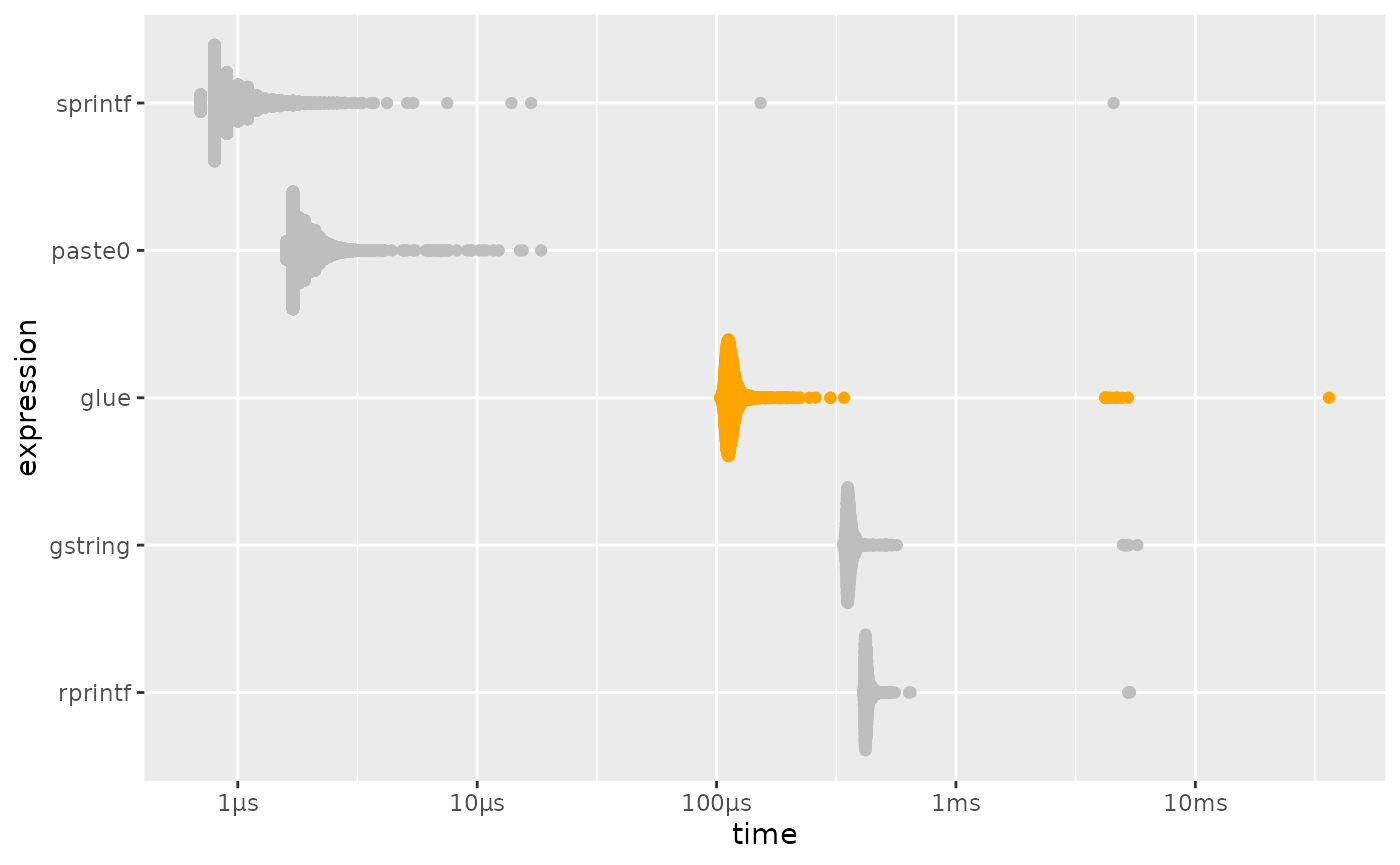
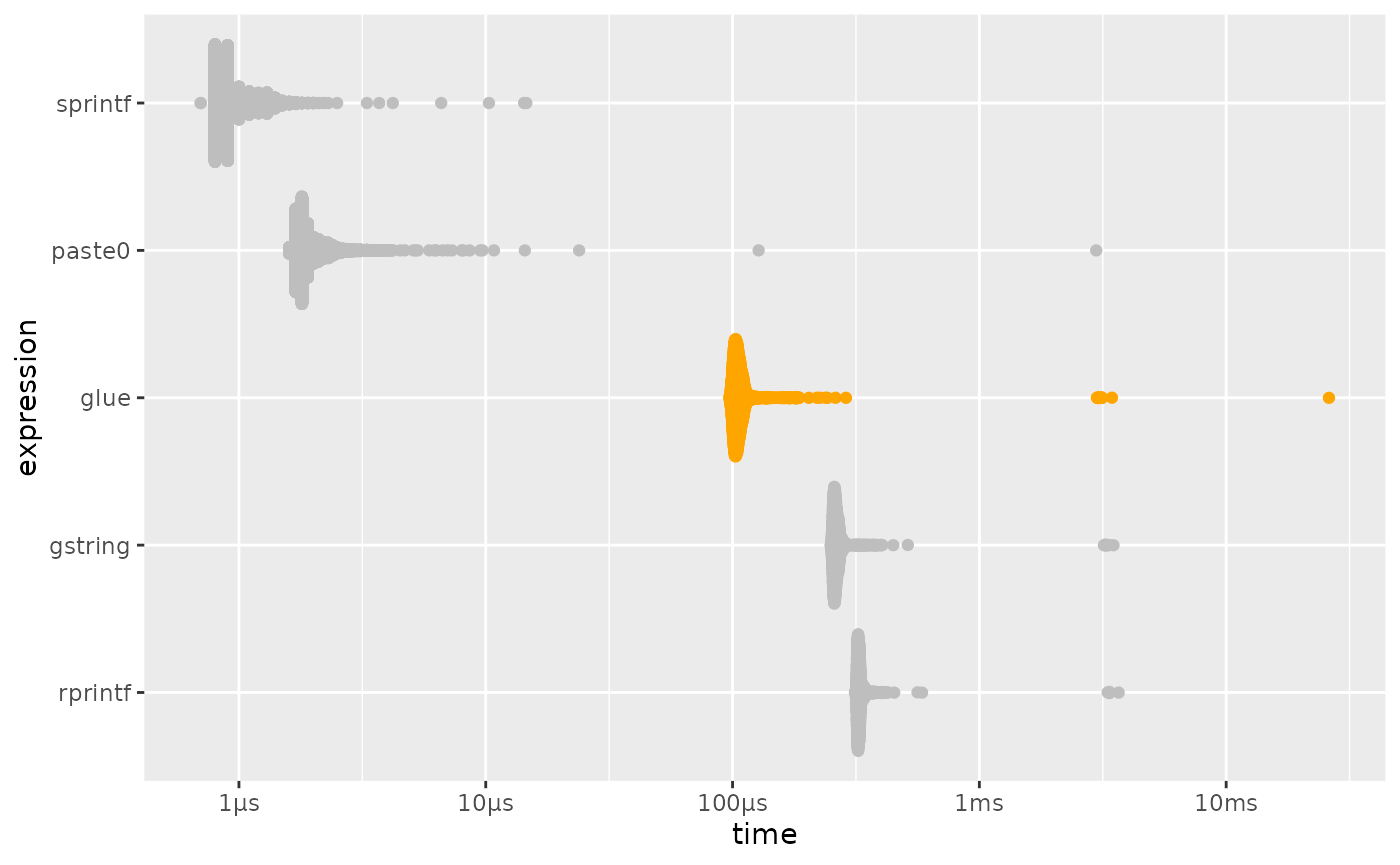
Deploying to gh-pages from @ tidyverse/glue@1bcda842a13c6b03a3e2320463b1022b2208edb4 🚀

diff --git a/dev/articles/speed.html b/dev/articles/speed.html
@@ -105,7 +105,7 @@
     
     
 <div class="sourceCode" id="cb1"><pre class="downlit sourceCode r">
-<code class="sourceCode R"><span><span class="kw"><a href="https://rdrr.io/r/base/library.html" class="external-link">library</a></span><span class="op">(</span><span class="va"><a href="https://github.com/tidyverse/glue" class="external-link">glue</a></span><span class="op">)</span></span>
+<code class="sourceCode R"><span><span class="kw"><a href="https://rdrr.io/r/base/library.html" class="external-link">library</a></span><span class="op">(</span><span class="va"><a href="https://glue.tidyverse.org/">glue</a></span><span class="op">)</span></span>
 <span><span class="kw"><a href="https://rdrr.io/r/base/library.html" class="external-link">library</a></span><span class="op">(</span><span class="va"><a href="https://ggplot2.tidyverse.org" class="external-link">ggplot2</a></span><span class="op">)</span></span>
 <span><span class="kw"><a href="https://rdrr.io/r/base/library.html" class="external-link">library</a></span><span class="op">(</span><span class="va"><a href="https://bench.r-lib.org/" class="external-link">bench</a></span><span class="op">)</span></span>
 <span><span class="kw"><a href="https://rdrr.io/r/base/library.html" class="external-link">library</a></span><span class="op">(</span><span class="va"><a href="https://dplyr.tidyverse.org" class="external-link">dplyr</a></span><span class="op">)</span></span>
@@ -166,11 +166,11 @@ this benchmark, but is now formally marked as “superseded”, in favor of
 <span><span class="co">#&gt; <span style="color: #949494;"># A tibble: 5 × 6</span></span></span>
 <span><span class="co">#&gt;   expression      min   median `itr/sec` mem_alloc `gc/sec`</span></span>
 <span><span class="co">#&gt;   <span style="color: #949494; font-style: italic;">&lt;bch:expr&gt;</span> <span style="color: #949494; font-style: italic;">&lt;bch:tm&gt;</span> <span style="color: #949494; font-style: italic;">&lt;bch:tm&gt;</span>     <span style="color: #949494; font-style: italic;">&lt;dbl&gt;</span> <span style="color: #949494; font-style: italic;">&lt;bch:byt&gt;</span>    <span style="color: #949494; font-style: italic;">&lt;dbl&gt;</span></span></span>
-<span><span class="co">#&gt; <span style="color: #BCBCBC;">1</span> sprintf     699.9ns    900ns   <span style="text-decoration: underline;">991</span>457.        0B    99.2 </span></span>
-<span><span class="co">#&gt; <span style="color: #BCBCBC;">2</span> paste0        1.6µs    1.9µs   <span style="text-decoration: underline;">503</span>826.        0B     0   </span></span>
-<span><span class="co">#&gt; <span style="color: #BCBCBC;">3</span> glue        103.4µs  113.7µs     <span style="text-decoration: underline;">8</span>576.  129.18KB    29.0 </span></span>
-<span><span class="co">#&gt; <span style="color: #BCBCBC;">4</span> gstring       338µs    357µs     <span style="text-decoration: underline;">2</span>758.    2.44MB    15.1 </span></span>
-<span><span class="co">#&gt; <span style="color: #BCBCBC;">5</span> rprintf     409.2µs  421.8µs     <span style="text-decoration: underline;">2</span>345.   78.16KB     8.35</span></span>
+<span><span class="co">#&gt; <span style="color: #BCBCBC;">1</span> sprintf       700ns    900ns  1<span style="text-decoration: underline;">029</span>609.        0B      0  </span></span>
+<span><span class="co">#&gt; <span style="color: #BCBCBC;">2</span> paste0        1.6µs    1.8µs   <span style="text-decoration: underline;">506</span>673.        0B     50.7</span></span>
+<span><span class="co">#&gt; <span style="color: #BCBCBC;">3</span> glue         97.1µs  104.5µs     <span style="text-decoration: underline;">9</span>384.  129.18KB     32.3</span></span>
+<span><span class="co">#&gt; <span style="color: #BCBCBC;">4</span> gstring     249.8µs  261.5µs     <span style="text-decoration: underline;">3</span>766.    2.44MB     19.1</span></span>
+<span><span class="co">#&gt; <span style="color: #BCBCBC;">5</span> rprintf     313.3µs  324.7µs     <span style="text-decoration: underline;">3</span>044.   78.16KB     12.5</span></span>
 <span></span>
 <span><span class="co"># plotting function defined in a hidden chunk</span></span>
 <span><span class="fu">plot_comparison</span><span class="op">(</span><span class="va">simple</span><span class="op">)</span></span></code></pre></div>
@@ -213,11 +213,11 @@ performance is much closer to that of <code><a href="https://rdrr.io/r/base/past
 <span><span class="co">#&gt; <span style="color: #949494;"># A tibble: 5 × 6</span></span></span>
 <span><span class="co">#&gt;   expression      min   median `itr/sec` mem_alloc `gc/sec`</span></span>
 <span><span class="co">#&gt;   <span style="color: #949494; font-style: italic;">&lt;bch:expr&gt;</span> <span style="color: #949494; font-style: italic;">&lt;bch:tm&gt;</span> <span style="color: #949494; font-style: italic;">&lt;bch:tm&gt;</span>     <span style="color: #949494; font-style: italic;">&lt;dbl&gt;</span> <span style="color: #949494; font-style: italic;">&lt;bch:byt&gt;</span>    <span style="color: #949494; font-style: italic;">&lt;dbl&gt;</span></span></span>
-<span><span class="co">#&gt; <span style="color: #BCBCBC;">1</span> sprintf      13.3ms   13.6ms      73.8   781.3KB     2.05</span></span>
-<span><span class="co">#&gt; <span style="color: #BCBCBC;">2</span> paste0       15.3ms   15.6ms      64.0   781.3KB     2.06</span></span>
-<span><span class="co">#&gt; <span style="color: #BCBCBC;">3</span> gstring      19.4ms   19.7ms      50.7    1.53MB     4.41</span></span>
-<span><span class="co">#&gt; <span style="color: #BCBCBC;">4</span> glue         19.6ms   19.7ms      50.2    2.29MB     4.37</span></span>
-<span><span class="co">#&gt; <span style="color: #BCBCBC;">5</span> rprintf      41.9ms   43.2ms      23.3    3.05MB     4.66</span></span>
+<span><span class="co">#&gt; <span style="color: #BCBCBC;">1</span> paste0       9.49ms   9.63ms     103.    781.3KB     4.22</span></span>
+<span><span class="co">#&gt; <span style="color: #BCBCBC;">2</span> sprintf     12.08ms  12.26ms      81.3   781.3KB     2.03</span></span>
+<span><span class="co">#&gt; <span style="color: #BCBCBC;">3</span> gstring     13.04ms  13.15ms      75.7    1.53MB     6.49</span></span>
+<span><span class="co">#&gt; <span style="color: #BCBCBC;">4</span> glue        13.96ms  14.11ms      70.6    2.29MB     9.11</span></span>
+<span><span class="co">#&gt; <span style="color: #BCBCBC;">5</span> rprintf     40.85ms  41.37ms      24.0    3.05MB     2.18</span></span>
 <span></span>
 <span><span class="co"># plotting function defined in a hidden chunk</span></span>
 <span><span class="fu">plot_comparison</span><span class="op">(</span><span class="va">vectorized</span><span class="op">)</span></span></code></pre></div>

diff --git a/dev/index.html b/dev/index.html
@@ -130,7 +130,7 @@
 <h5 id="variables-can-be-passed-directly-into-strings">Variables can be passed directly into strings.<a class="anchor" aria-label="anchor" href="#variables-can-be-passed-directly-into-strings"></a>
 </h5>
 <div class="sourceCode" id="cb3"><pre class="downlit sourceCode r">
-<code class="sourceCode R"><span><span class="kw"><a href="https://rdrr.io/r/base/library.html" class="external-link">library</a></span><span class="op">(</span><span class="va"><a href="https://github.com/tidyverse/glue" class="external-link">glue</a></span><span class="op">)</span></span>
+<code class="sourceCode R"><span><span class="kw"><a href="https://rdrr.io/r/base/library.html" class="external-link">library</a></span><span class="op">(</span><span class="va"><a href="https://glue.tidyverse.org/">glue</a></span><span class="op">)</span></span>
 <span><span class="va">name</span> <span class="op">&lt;-</span> <span class="st">"Fred"</span></span>
 <span><span class="fu"><a href="reference/glue.html">glue</a></span><span class="op">(</span><span class="st">'My name is {name}.'</span><span class="op">)</span></span>
 <span><span class="co">#&gt; My name is Fred.</span></span></code></pre></div>
@@ -148,7 +148,7 @@
 <h5 id="long-strings-are-broken-by-line-and-concatenated-together">Long strings are broken by line and concatenated together.<a class="anchor" aria-label="anchor" href="#long-strings-are-broken-by-line-and-concatenated-together"></a>
 </h5>
 <div class="sourceCode" id="cb5"><pre class="downlit sourceCode r">
-<code class="sourceCode R"><span><span class="kw"><a href="https://rdrr.io/r/base/library.html" class="external-link">library</a></span><span class="op">(</span><span class="va"><a href="https://github.com/tidyverse/glue" class="external-link">glue</a></span><span class="op">)</span></span>
+<code class="sourceCode R"><span><span class="kw"><a href="https://rdrr.io/r/base/library.html" class="external-link">library</a></span><span class="op">(</span><span class="va"><a href="https://glue.tidyverse.org/">glue</a></span><span class="op">)</span></span>
 <span></span>
 <span><span class="va">name</span> <span class="op">&lt;-</span> <span class="st">"Fred"</span></span>
 <span><span class="va">age</span> <span class="op">&lt;-</span> <span class="fl">50</span></span>
@@ -281,7 +281,7 @@
 </h5>
 <p>Use backticks to quote identifiers, normal strings and numbers are quoted appropriately for your backend.</p>
 <div class="sourceCode" id="cb15"><pre class="downlit sourceCode r">
-<code class="sourceCode R"><span><span class="kw"><a href="https://rdrr.io/r/base/library.html" class="external-link">library</a></span><span class="op">(</span><span class="va"><a href="https://github.com/tidyverse/glue" class="external-link">glue</a></span><span class="op">)</span></span>
+<code class="sourceCode R"><span><span class="kw"><a href="https://rdrr.io/r/base/library.html" class="external-link">library</a></span><span class="op">(</span><span class="va"><a href="https://glue.tidyverse.org/">glue</a></span><span class="op">)</span></span>
 <span></span>
 <span><span class="va">con</span> <span class="op">&lt;-</span> <span class="fu">DBI</span><span class="fu">::</span><span class="fu"><a href="https://dbi.r-dbi.org/reference/dbConnect.html" class="external-link">dbConnect</a></span><span class="op">(</span><span class="fu">RSQLite</span><span class="fu">::</span><span class="fu"><a href="https://rsqlite.r-dbi.org/reference/SQLite.html" class="external-link">SQLite</a></span><span class="op">(</span><span class="op">)</span>, <span class="st">":memory:"</span><span class="op">)</span></span>
 <span><span class="fu"><a href="https://rdrr.io/r/base/colnames.html" class="external-link">colnames</a></span><span class="op">(</span><span class="va">iris</span><span class="op">)</span> <span class="op">&lt;-</span> <span class="fu"><a href="https://rdrr.io/r/base/grep.html" class="external-link">gsub</a></span><span class="op">(</span><span class="st">"[.]"</span>, <span class="st">"_"</span>, <span class="fu"><a href="https://rdrr.io/r/base/chartr.html" class="external-link">tolower</a></span><span class="op">(</span><span class="fu"><a href="https://rdrr.io/r/base/colnames.html" class="external-link">colnames</a></span><span class="op">(</span><span class="va">iris</span><span class="op">)</span><span class="op">)</span><span class="op">)</span></span>

diff --git a/dev/articles/transformers.html b/dev/articles/transformers.html
@@ -129,7 +129,7 @@ functions within the <code>glue</code> package. Rather, users are
 encouraged to create custom functions using transformers to fit their
 individual needs.</p>
 <div class="sourceCode" id="cb1"><pre class="downlit sourceCode r">
-<code class="sourceCode R"><span><span class="kw"><a href="https://rdrr.io/r/base/library.html" class="external-link">library</a></span><span class="op">(</span><span class="va"><a href="https://github.com/tidyverse/glue" class="external-link">glue</a></span><span class="op">)</span></span></code></pre></div>
+<code class="sourceCode R"><span><span class="kw"><a href="https://rdrr.io/r/base/library.html" class="external-link">library</a></span><span class="op">(</span><span class="va"><a href="https://glue.tidyverse.org/">glue</a></span><span class="op">)</span></span></code></pre></div>
 <div class="section level3">
 <h3 id="collapse-transformer">collapse transformer<a class="anchor" aria-label="anchor" href="#collapse-transformer"></a>
 </h3>

diff --git a/dev/authors.html b/dev/authors.html
@@ -86,13 +86,13 @@
 
       <p>Hester J, Bryan J (2023).
 <em>glue: Interpreted String Literals</em>.
-https://github.com/tidyverse/glue, https://glue.tidyverse.org/. 
+https://glue.tidyverse.org/, https://github.com/tidyverse/glue. 
 </p>
       <pre>@Manual{,
   title = {glue: Interpreted String Literals},
   author = {Jim Hester and Jennifer Bryan},
   year = {2023},
-  note = {https://github.com/tidyverse/glue, https://glue.tidyverse.org/},
+  note = {https://glue.tidyverse.org/, https://github.com/tidyverse/glue},
 }</pre>
     </div>
   </main><aside class="col-md-3"><nav id="toc"><h2>On this page</h2>
